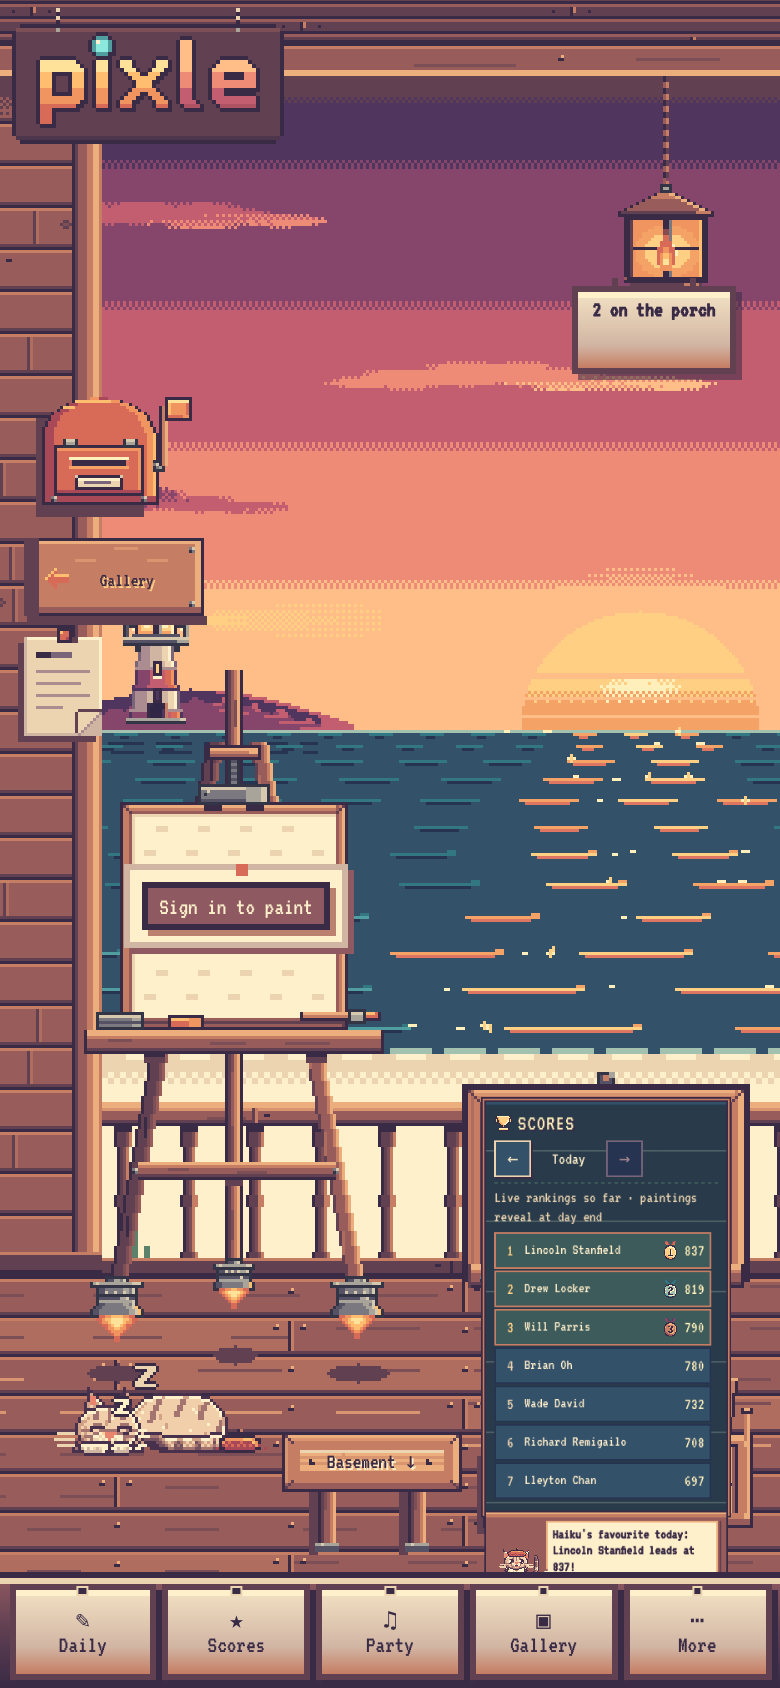
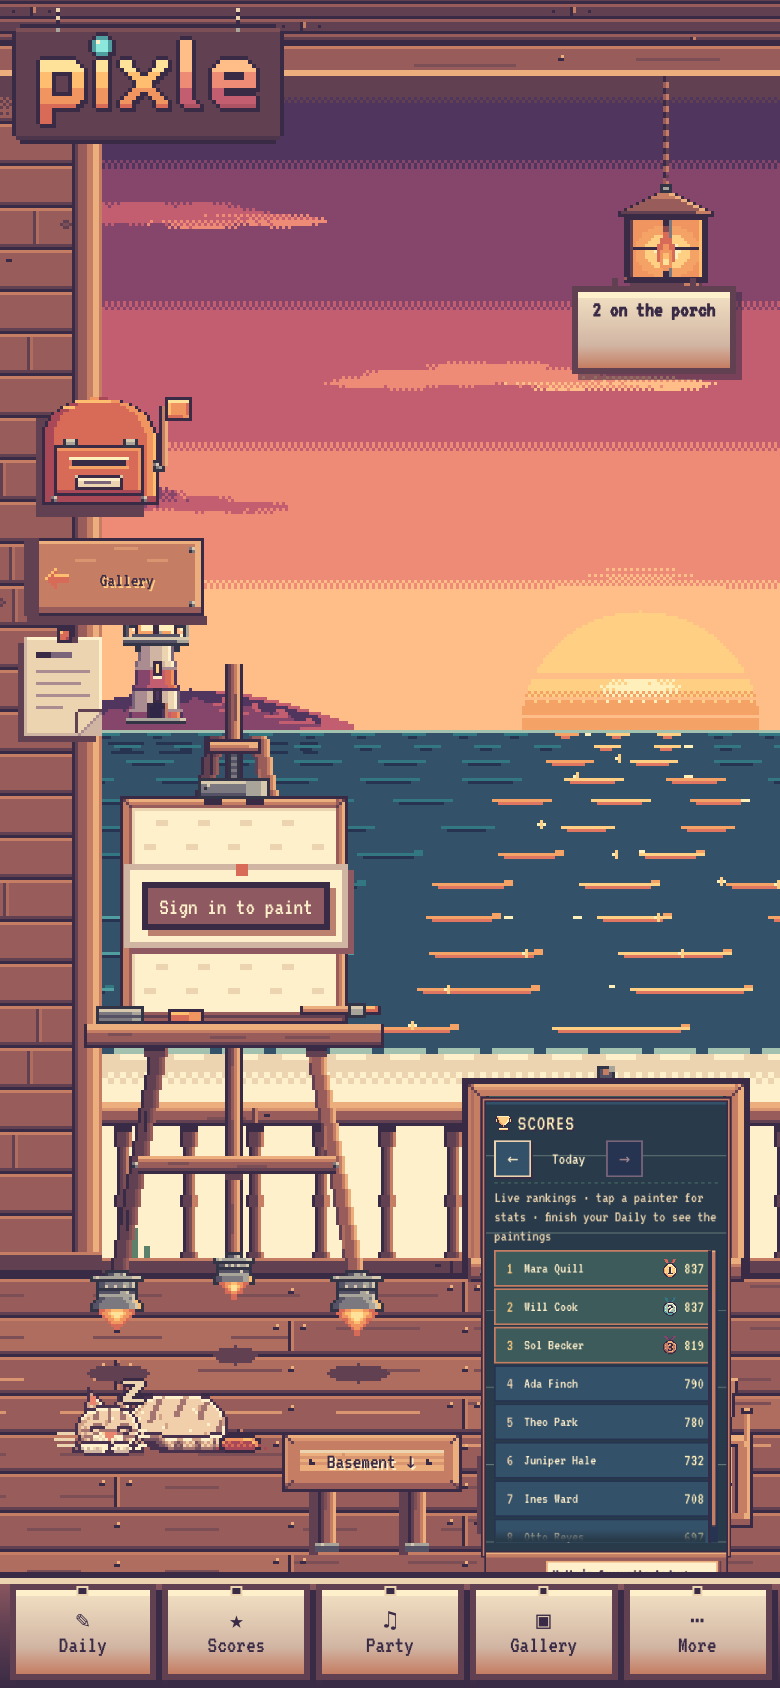
docs: other players' names out of the README screenshots; fix the offline test command
The porch, phone and scores screenshots showed other players' real names and
a photo avatar. Recaptured from the live site with their names and avatars
swapped for made-up ones. Drop the generated feedback screenshots that were
committed under a gitignored folder.

The README's offline suite command needs PIXLE_TEST=1 (as CI sets): a plain
production build strips the dev-only controls the suite drives.

diff --git a/README.md b/README.md
@@ -88,7 +88,7 @@ src/schemas/              Collection schemas and permissions
 tests/                    Playwright: offline browser suite and real-worker specs
 docs/progress.md          Running log of decisions, findings and verification
 docs/superpowers/         Design specs and implementation plans
-docs/screenshots/         README images (captured from the live site)
+docs/screenshots/         README images (captured from the live site, other players' names replaced)
 ```
 
 ## Running it
@@ -99,10 +99,11 @@ Requires Node 22, 24 or 26 and npm 11.6+.
 npm install
 npm run dev          # local dev server (Vite + Miniflare); uses a fake judge, so no paid AI calls
 npm run verify       # lint, type-check, unit tests, build
-npm run build && npx playwright test --config tests/offline.playwright.config.ts   # offline browser suite
+PIXLE_TEST=1 npm run build && npx playwright test --config tests/offline.playwright.config.ts   # offline browser suite
 ```
 
-CI runs `verify` and the offline browser suite on every push and pull request.
+`PIXLE_TEST=1` keeps the dev-only controls the offline suite drives; a production build strips them. CI runs `verify`
+and the offline browser suite on every push and pull request.
 
 If your OS has reduced motion turned on, Pixle skips its camera moves between scenes (everything still works); turn it off to see the transitions.
 

diff --git a/docs/progress.md b/docs/progress.md
@@ -83,7 +83,7 @@ AI image generation (the point is humans draw), ElevenLabs announcer (gimmick).
 | Vision judging | `anthropic/chat-completion` integration proxy via `createServerTools` | `src/server/daily-judge.ts`; production mode calls the integration server-side. Fake judging is the default in dev/tests. |
 | Atomic one-attempt-per-day and grade caps | `DailyRoom`, a `BaseRoom` Durable Object using SQLite | `src/server/daily-room.ts` serializes state operations by UTC day; it uses HTTP operations, not a WebSocket. |
 | Gallery and leaderboard | `dailyDrawings` and `dailyScores` collections with server-write/public-read permissions | Profiles and boards read records through the normal collection API; drawings are private until the daily close. |
-| Close day and award top-three medals | DeepSpace cron through `AppCronRoom` | `src/cron.ts` runs at 00:15 UTC and `src/server/daily-close.ts` reveals eligible drawings and records medals. |
+| Close day and award top-three medals | DeepSpace cron through `AppCronRoom` | `src/cron.ts` runs at 00:10 UTC and `src/server/daily-close.ts` reveals eligible drawings and records medals. |
 | Shared daily AI cap | Existing `BudgetRoom` | Shared with party mode; `BUDGET.dailyCalls` is 1000. |
 
 Realtime sync/presence, messaging, payments, and file storage are not used for daily play. The local `claude -p` helper
